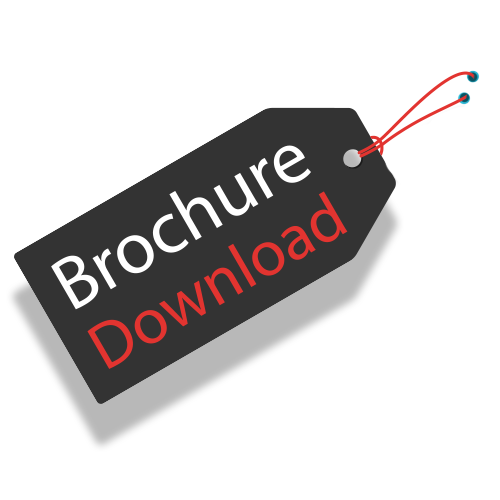
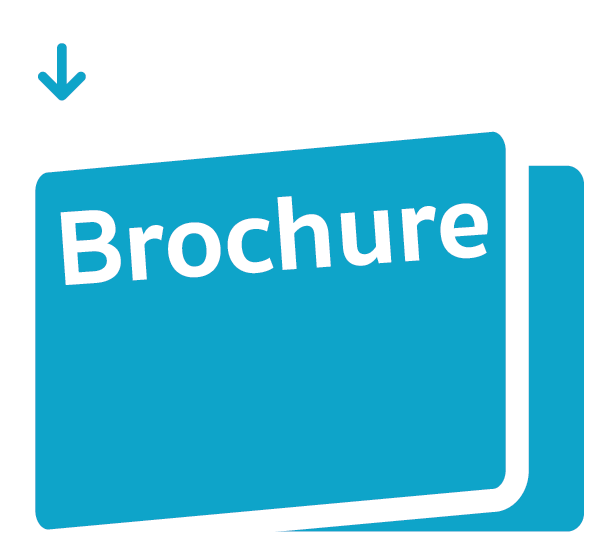
Change style follow requirment 06/07/2559

diff --git a/imports/ui/components/footer/Footer.jsx b/imports/ui/components/footer/Footer.jsx
@@ -1,11 +1,105 @@
 import React from 'react';
 
 export default class Footer extends React.Component {
+  componentDidMount() {
+    $( document ).ready(function(){
+      $(".dropdown-button").dropdown();
+    });
+  }
+
+  onClickMainpage() {
+    FlowRouter.go('main');
+    $( document ).ready(function(){
+      $('.button-collapse').sideNav('hide');
+    });
+  }
+
+  onClickRegister() {
+    FlowRouter.go('register');
+    $( document ).ready(function(){
+      $('.button-collapse').sideNav('hide');
+    });
+  }
+
+  onClickUploadTranscript() {
+    FlowRouter.go('paidform');
+    $( document ).ready(function(){
+      $('.button-collapse').sideNav('hide');
+    });
+  }
+
+  onClickContact() {
+    FlowRouter.go('contact');
+    $( document ).ready(function(){
+      $('.button-collapse').sideNav('hide');
+    });
+  }
+
+  onClickCourseM4() {
+    FlowRouter.go('coursem4');
+    $( document ).ready(function(){
+      $('.button-collapse').sideNav('hide');
+    });
+  }
+
+  onClickCourseM5() {
+    FlowRouter.go('coursem5');
+    $( document ).ready(function(){
+      $('.button-collapse').sideNav('hide');
+    });
+  }
+
+  onClickCourseCoachMe() {
+    FlowRouter.go('coursecoachme');
+    $( document ).ready(function(){
+      $('.button-collapse').sideNav('hide');
+    });
+  }
+
+  onClickCheck() {
+    FlowRouter.go('search');
+    $( document ).ready(function(){
+      $('.button-collapse').sideNav('hide');
+    });
+  }
 
   render() {
     return(
       <div className="footer">
-        <img src="/images/navigator/logo.png"/>
+        <div><span>© Copyright - Thebright</span></div>
+        <div className="menu-navigator-component">
+          <nav className="menu-navigator">
+            <div className="nav-wrapper">
+              <a href="#" data-activates="mobile-list" className="button-collapse"><i className="fa fa-bars fa-5x" aria-hidden="true"></i></a>
+              <ul className="desktop-list">
+                <li><a id="mainPage" onClick={this.onClickMainpage} href="">หน้าแรก</a></li>
+                <li><a id="course" className="dropdown-button" href="" data-activates="course-list">คอร์สเรียน<i className="material-icons right">arrow_drop_down</i></a></li>
+                <li><a id="register" className="dropdown-button" href="" data-activates="register-list">สมัครเรียน<i className="material-icons right">arrow_drop_down</i></a></li>
+                <li onClick={this.onClickContact}><a id="contact" href="">ติดต่อเรา</a></li>
+              </ul>
+            </div>
+          </nav>
+          <ul id="why-the-bright-list" className="dropdown-content">
+            <li onClick={this.onClickKnow}><a href="">รู้จักเดอะไบร์ท</a></li>
+            <li onClick={this.onClickWhy}><a href="">ทำไมต้องเดอะไบร์ท</a></li>
+            <li onClick={this.onClickSmartChild}><a href="">ทำเนียบเด็กเก่ง</a></li>
+          </ul>
+          <ul id="team-the-bright-list" className="dropdown-content">
+            <li onClick={this.onClickTutors}><a href="">สุดยอดติวเตอร์</a></li>
+            <li><a href="">เดอะไบร์ททีม</a></li>
+          </ul>
+          <ul id="course-list" className="dropdown-content">
+            <li onClick={this.onClickCourseM4} className="list-course"><a id="m4" href="">ค่าย ติว ติด ชัวร์ ตุลา 59</a></li>
+            <li onClick={this.onClickCourseM5} className="list-course"><a id="m5" href="">เดอะไบร์ท ติว ติด มันส์ 59</a></li>
+            <li onClick={this.onClickCourseCoachMe} className="list-course"><a id="m6" href="">Coach Me Program</a></li>
+          </ul>
+          <ul id="register-list" className="dropdown-content">
+            <li onClick={this.onClickRegister}><a href="">ขั้นตอนการสมัคร</a></li>
+            <li onClick={this.onClickUploadTranscript}><a href="">แจ้งการชำระเงิน</a></li>
+            <li onClick={this.onClickCheck}><a href="">ตรวจสอบรายชื่อ</a></li>
+            <li><a href="http://thebright.in.th/pdf/pay.pdf">ดาวน์โหลดใบชำระเงิน</a></li>
+          </ul>
+        </div>
       </div>
     )
   }

diff --git a/client/sass/main.sass b/client/sass/main.sass
@@ -17,18 +17,19 @@ html
   top: 0
   z-index: 999
   transition: height 0.4s
+  overflow: hidden
   .logo
     height: 12em
   .top-nav-landing
     display: flex
     justify-content: space-between
     padding-left: 8% !important
-    padding-right: 4% !important
+    padding-right: 8% !important
     height: 65% !important
     img
       margin-top: 3.5% !important
     img.nav-brochrue-landing
-      margin-top: -12.5% !important
+      margin-top: 6% !important
   .top-nav
     padding-left: 6%
     padding-right: 6%
@@ -49,7 +50,7 @@ html
     height: auto
     transition: width 0.5s
   .nav-brochrue-landing
-    width: 25em
+    width: 20em
     height: auto
     transition: width 0.5s
 .menu-navigator
@@ -91,18 +92,19 @@ html
   top: 0
   z-index: 999
   transition: height 0.4s
+  overflow: hidden
   .logo
     height: 12em !important
   .top-nav-landing
     display: flex
     justify-content: space-between
-    padding-left: 8% !important
-    padding-right: 4% !important
+    padding-left: 15% !important
+    padding-right: 16% !important
     height: 65% !important
     img
       margin-top: 1.5% !important
     img.nav-brochrue-landing
-      margin-top: -12.5% !important
+      margin-top: 4% !important
   .top-nav
     padding-left: 8% !important
     padding-right: 8% !important
@@ -124,7 +126,7 @@ html
     height: auto !important
     transition: width 0.5s
   .nav-brochrue-landing
-    width: 13.7em !important
+    width: 11em !important
     height: auto !important
     transition: width 0.5s
 .menu-navigator-component-on-scroll
@@ -146,18 +148,34 @@ html
         font-size: 14px !important
       a#whyTheBright
         width: 14em
+.btn-go
+  img
+    width: 17rem !important
+    height: auto !important
 // Footer
 .footer
-  background: url('/images/footer/footer-bg.jpg')
+  background: url('/images/navigator/bg.png')
   background-size: cover
-  height: 12em
+  height: 4.5rem
   display: flex
   align-items: center
-  padding-left: 8%
-  padding-right: 8%
-  img
-    width: 20em
-    height: auto
+  justify-content: space-between
+  padding-left: 2rem
+  padding-right: 2rem
+  color: #fff
+  font-size: 16px
+  .menu-navigator
+    background-color: inherit
+  .desktop-list
+    margin-top: -0.3rem !important
+    li
+      a
+       color: #fff
+       font-size: 16px !important
+  ul#course-list.dropdown-content
+    top: -10.3em !important
+  ul#register-list.dropdown-content
+    top: -13.6em !important
 
 // Landing page
 .landing-page
@@ -540,7 +558,7 @@ html
 .head-admin
   padding-left: 2rem
   padding-right: 2rem
-  width: 170%
+  width: 100%
   display: flex
   justify-content: space-between
 .menu-admin
@@ -593,7 +611,10 @@ html
   padding: 1rem !important
 i.approve-icon
   color: #8bc34a
-
+.student-item
+  img
+    width: 20rem
+    height: auto
 // Profile
 .ind-profile
   padding-top: 13rem
@@ -606,6 +627,9 @@ i.approve-icon
   border-radius: 0.5rem
   padding: 1rem
   background-color: rgba(255,255,255,0.8)
+  img
+    width: 60%
+    height: 30%
   hr.line-header
     margin-left: 6.5rem
     margin-right: 6.5rem
@@ -631,6 +655,9 @@ i.approve-icon
   border-radius: 0.5rem
   padding: 1rem
   background-color: rgba(255,255,255,0.8)
+  img
+    width: 60%
+    height: 30%
   hr.line-header
     margin-left: 6.5rem
     margin-right: 6.5rem
@@ -1220,7 +1247,7 @@ $breakpoint-desktop: 1680px
     background-size: cover
   // Footer
   .footer
-    background: url('/images/footer/footer-bg.jpg')
+    background: url('/images/navigator/bg.png')
     background-size: cover
     height: 18em
     display: flex
@@ -1327,6 +1354,7 @@ $breakpoint-desktop: 1680px
     padding-bottom: 5%
   .ind-profile-detail
     width: 60%
+
     h3
       font-size: 60px
     h5

diff --git a/imports/ui/components/navigator/NavigatorLanding.jsx b/imports/ui/components/navigator/NavigatorLanding.jsx
@@ -22,7 +22,7 @@ export default class NavigatorLanding extends React.Component {
         <div className="top-nav-landing">
           <a className="logo" href="/"><img className="nav-logo-landing" src="/images/navigator/logo.png"/></a>
           <div>
-            <a className="download-brochure" href=""><img className="nav-brochrue-landing animated infinite swing" src="/images/landing/brochure.png"/></a>
+            <a className="download-brochure" href=""><img className="nav-brochrue-landing" src="/images/landing/brochure.png"/></a>
           </div>
         </div>
       </nav>

diff --git a/imports/ui/components/admin/StudentItems.jsx b/imports/ui/components/admin/StudentItems.jsx
@@ -62,6 +62,7 @@ export default class StudentItems extends React.Component {
           <div>วันที่จ่าย : {this.props.names.date}</div>
           <div>เวลาที่จ่าย : {this.props.names.time}</div>
           <div>จำนวนเงิน : {this.props.names.amount}</div>
+          <div><img src={this.props.names.slip}/></div>
         </div>
       </li>
     )

diff --git a/imports/ui/components/profile/DetailGroupStudents.jsx b/imports/ui/components/profile/DetailGroupStudents.jsx
@@ -57,6 +57,8 @@ export default class DetailStudent extends React.Component {
         <div><h5>Status :</h5> <span>{this.renderStatus()}</span></div>
         <hr className="line-section"/>
         <div><h5>Checkin :</h5> <span></span></div>
+        <hr className="line-section"/>
+        <div><h5>slip :</h5> <img src={this.props.student.slip}/></div>
       </div>
     )
   }

diff --git a/imports/ui/components/profile/DetailStudent.jsx b/imports/ui/components/profile/DetailStudent.jsx
@@ -44,6 +44,8 @@ export default class DetailStudent extends React.Component {
         <div><h5>Status :</h5> {this.renderStatus()} </div>
         <hr className="line-section"/>
         <div><h5>Checkin :</h5> <span></span></div>
+          <hr className="line-section"/>
+          <div><h5>slip :</h5> <img src={this.props.student.slip}/></div>
       </div>
     )
   }

diff --git a/imports/pages/UploadTranscript.jsx b/imports/pages/UploadTranscript.jsx
@@ -78,12 +78,6 @@ export default class UploadTranscript extends React.Component {
   }
 
   onDrop(files) {
-      files.map((file) => {
-        const name = file.name;
-        console.log('Received files: ', file);
-
-      })
-
       this.setState({
         files: files
       });
